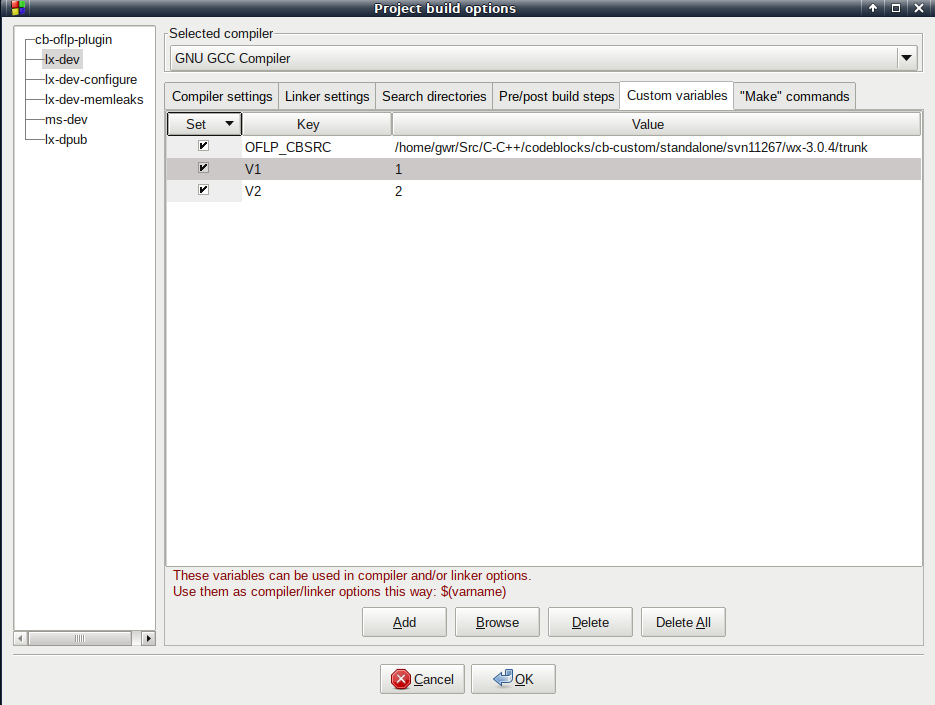
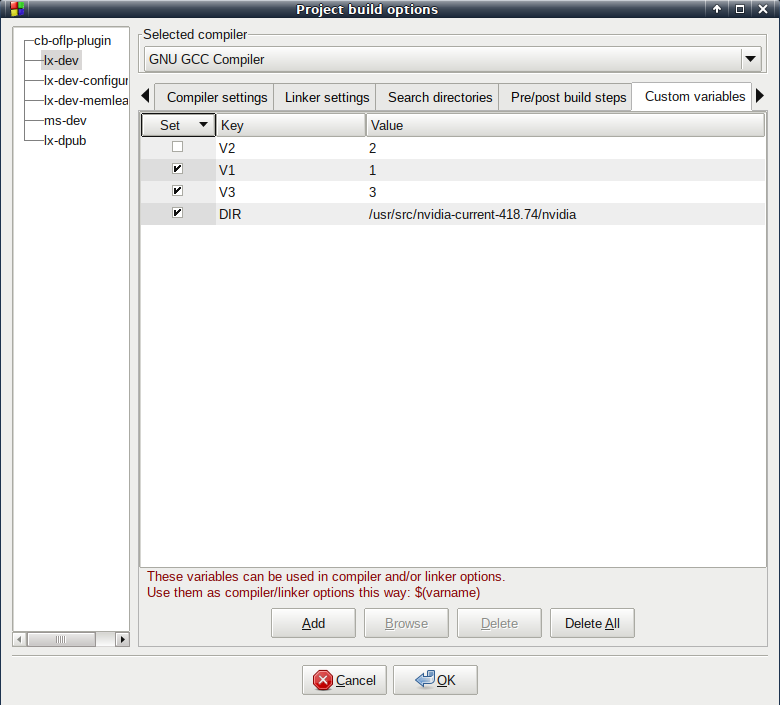
Commit

Changed region(s): [[0.0, 0.0, 1.0, 0.9986], [0.3692, 0.0, 0.5846, 0.0312]]

diff --git a/README.md b/README.md
@@ -23,16 +23,18 @@ Documentation.
 
 ## 03 Screenshots
 
-![scr-002](https://github.com/earlgrey-bis/erg.cbproject-custom-vars/blob/doc/scr/cvars-19.11.16-002.png "screenshot-002.png")
+![scr-001](https://github.com/earlgrey-bis/erg.cbproject-custom-vars/blob/doc/scr/cvars-19.11.16-001.png "screenshot-001.png")
 ## 04 Tech
+### 04.01 Principle
 A StringHash named *m_VarsInactive* is added to the *CompileOptionsBase* class. This StringHash contains all inactive vars. The *m_Vars* member of *CompileOptionsBase* is said to hold the active vars.
 > CompileOptionsBase.h
 > `StringHash m_Vars;`
 > `StringHash m_VarsInactive;`
 
-
 The *CompilerOptionsDialog* class therefore get the active and inactive vars from *CompileOptionsBase*, let the user edit them together , and at the end separate them again in active and inactive vars.
 
-For the rest of C::B code, exception made of *ProjectLoader* class, which needs to load / save active and inactive vars, only active vars ( i.e. `CompileOptionsBase::m_Vars` ) exist.
+For the rest of C::B code, exception made of *ProjectLoader* class, which needs to load / save active and inactive vars, only active vars ( i.e. `CompileOptionsBase::m_Vars` ) exist, as before.
 
+### 04.02 UI changes
+* The "Edit" button has been removed, since the vars can be edited from inside the *wxDataViewListCtrl. *. The "browse" functionality remains, in a new "Browse" button that replace the "Edit" one.
 
